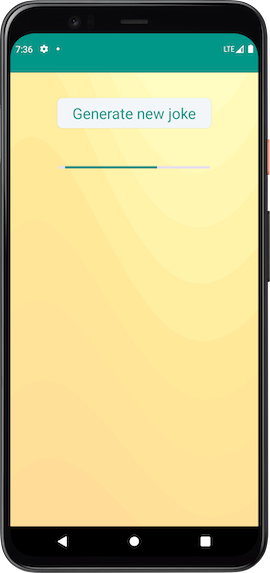
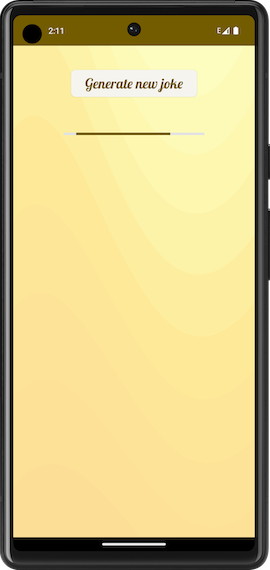
Use Downloadble Font

Changed region(s): [[0.0, 0.0, 1.0, 1.0], [0.2074, 0.2684, 0.7704, 0.2982]]

diff --git a/app/src/main/java/rs/smobile/chucknorrisjokes/ui/theme/Type.kt b/app/src/main/java/rs/smobile/chucknorrisjokes/ui/theme/Type.kt
@@ -4,11 +4,40 @@ import androidx.compose.material3.Typography
 import androidx.compose.ui.text.TextStyle
 import androidx.compose.ui.text.font.FontFamily
 import androidx.compose.ui.text.font.FontWeight
+import androidx.compose.ui.text.googlefonts.Font
+import androidx.compose.ui.text.googlefonts.GoogleFont
 import androidx.compose.ui.unit.sp
+import rs.smobile.chucknorrisjokes.R
+
+private val provider = GoogleFont.Provider(
+    providerAuthority = "com.google.android.gms.fonts",
+    providerPackage = "com.google.android.gms",
+    certificates = R.array.com_google_android_gms_fonts_certs
+)
+
+private val fontName = GoogleFont("Lobster")
+
+private val fontFamily = FontFamily(
+    Font(googleFont = fontName, fontProvider = provider)
+)
 
 val Typography = Typography(
+    headlineSmall = TextStyle(
+        fontFamily = fontFamily,
+        fontWeight = FontWeight.Normal,
+        fontSize = 24.sp,
+        lineHeight = 32.0.sp,
+        letterSpacing = 0.0.sp
+    ),
+    titleLarge = TextStyle(
+        fontFamily = fontFamily,
+        fontWeight = FontWeight.Normal,
+        fontSize = 22.sp,
+        lineHeight = 28.0.sp,
+        letterSpacing = 0.0.sp
+    ),
     bodyLarge = TextStyle(
-        fontFamily = FontFamily.Default,
+        fontFamily = fontFamily,
         fontWeight = FontWeight.Normal,
         fontSize = 16.sp,
         lineHeight = 24.sp,
